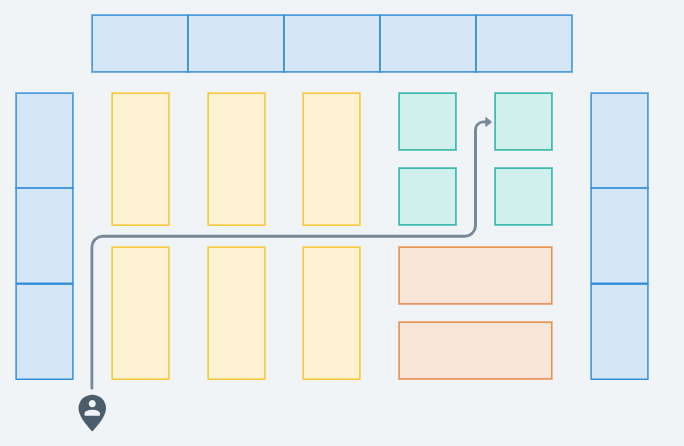
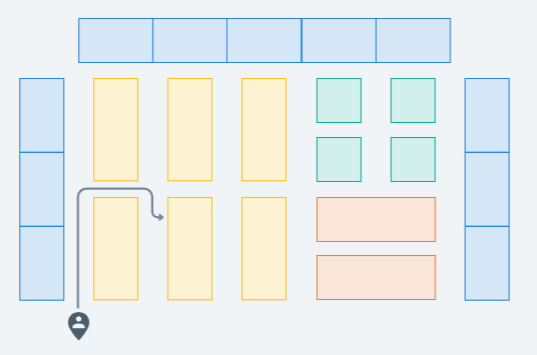
commit do pitch

diff --git a/streamlit_app.py b/streamlit_app.py
@@ -1,5 +1,4 @@
 import streamlit as st
-import random
 
 # Inicializando a lista de itens se ainda não existir
 if 'itens' not in st.session_state:
@@ -8,69 +7,70 @@ if 'itens' not in st.session_state:
 if 'selected_image' not in st.session_state:
     st.session_state.selected_image = "mapa-sem-rota.png"  # Imagem inicial
 
-# Lista de 8 imagens aleatórias
-image_options = [
-    "mapa1/mapa1.png", "mapa1/mapa2.png", "mapa1/mapa3.png", "mapa1/mapa4.png",
-    "mapa1/mapa5.png", "mapa1/mapa6.png", "mapa1/mapa7.png", "mapa1/mapa8.png"
-]
-
-# Dicionário para mapear os itens às suas imagens correspondentes
-item_to_image = {
-    "Produto A": "mapa1/mapa1.png",
-    "Produto B": "mapa1/mapa2.png",
-    "Produto C": "mapa1/mapa3.png",
-    "Produto D": "mapa1/mapa4.png",
-    "Produto E": "mapa1/mapa5.png",
-    "Produto F": "mapa1/mapa6.png",
-    "Produto G": "mapa1/mapa7.png",
-    "Produto H": "mapa1/mapa8.png",
+# Lista de imagens para diferentes quantidades de itens ticados
+tick_to_image = {
+    1: "mapa1/mapa1.png",  # Imagem para 1 item
+    2: "mapa1/mapa2.png",  # Imagem para 2 itens
+    3: "mapa1/mapa3.png",  # Imagem para 3 itens (ou 2 itens com 1 ticado)
+    4: "mapa1/mapa4.png",  # Imagem para 2 itens todos ticados
+    5: "mapa1/mapa5.png",
+    6: "mapa1/mapa6.png",
+    7: "mapa1/mapa7.png",
+    8: "mapa1/mapa8.png",
 }
 
-# Função para adicionar um item à lista e alterar a imagem
 def adicionar_item():
     item = st.session_state.novo_item
-    if item: 
+    if item:
         st.session_state.itens.append(item)
-        st.session_state.novo_item = ""  # Limpar a caixa de texto depois de adicionar
-        # Selecionar uma imagem aleatória quando um novo item é adicionado
-        st.session_state.selected_image = random.choice(image_options)
+        st.session_state.novo_item = ""  # Limpar o campo de entrada após adicionar
 
-# Função para limpar a lista de itens
 def limpar_lista():
     st.session_state.itens.clear()  
-    st.session_state.selected_image = "mapa-sem-rota.png"  # Voltar para a imagem inicial
-    st.experimental_rerun()  # Recarregar a página para refletir as alterações
+    st.session_state.selected_image = "mapa-sem-rota.png"  
+    st.experimental_rerun()
 
-# Carregar e exibir a imagem no sidebar
 image_path = "logo-cart.png" 
 st.sidebar.image(image_path, width=200)
 
-# Entrada de texto para adicionar novo item
 st.sidebar.text_input("Adicionar item:", key='novo_item')
 st.sidebar.button("Adicionar", on_click=adicionar_item)
 
-# Exibindo todos os itens como checkboxes na sidebar
 st.sidebar.subheader("Itens na lista:")
-for item in st.session_state.itens:
-    st.sidebar.checkbox(item)
 
-# Botão para limpar a lista
+# Variável para contar quantos itens foram ticados
+itens_ticados = 0
+
+# Verifica as checkboxes e conta quantos itens foram marcados
+for item in st.session_state.itens:
+    if st.sidebar.checkbox(item):
+        itens_ticados += 1
+
+# Atualiza a imagem com base na quantidade de itens ticados
+if itens_ticados > 0:
+    # Se todos os itens estiverem ticados e houver pelo menos 2 itens
+    if len(st.session_state.itens) >= 2 and itens_ticados == len(st.session_state.itens):
+        st.session_state.selected_image = "mapa1/mapa4.png"
+    # Se houver pelo menos 2 itens e pelo menos 1 item ticado
+    elif len(st.session_state.itens) >= 2 and itens_ticados >= 1:
+        st.session_state.selected_image = "mapa1/mapa3.png"
+    elif itens_ticados in tick_to_image:
+        st.session_state.selected_image = tick_to_image[itens_ticados]
+else:
+    if st.session_state.itens:  # Se a lista não estiver vazia
+        st.session_state.selected_image = "mapa1/mapa8.png"  # Imagem 8
+    else:
+        st.session_state.selected_image = "mapa-sem-rota.png"  # Imagem padrão se a lista estiver vazia
+
+# Se houver apenas um item na lista, mostra a imagem mapa1
+if len(st.session_state.itens) == 1:
+    st.session_state.selected_image = "mapa1/mapa1.png"
+# Se houver exatamente dois itens na lista e nenhum deles estiver ticado
+elif len(st.session_state.itens) == 2 and itens_ticados == 0:
+    st.session_state.selected_image = "mapa1/mapa2.png"
+
 if st.sidebar.button("Limpar lista"):
     limpar_lista()
 
-# Exibindo a imagem correspondente ao item selecionado
 st.title("Mapa do Supermercado")
 st.image(st.session_state.selected_image, width=800)
-
-# Seção para exibir os itens na lista em um selectbox dentro da sidebar
-st.sidebar.subheader("Seleção de itens:")
-if st.session_state.itens:
-    selecionado = st.selectbox("Selecione um item:", st.session_state.itens)
-
-    # Alterar a imagem com base na seleção
-    if selecionado:
-        st.session_state.selected_image = random.choice(image_options)
-
-    st.write(f"Você selecionou: {selecionado}")
-else:
-    st.write("Nenhum item na lista.")
